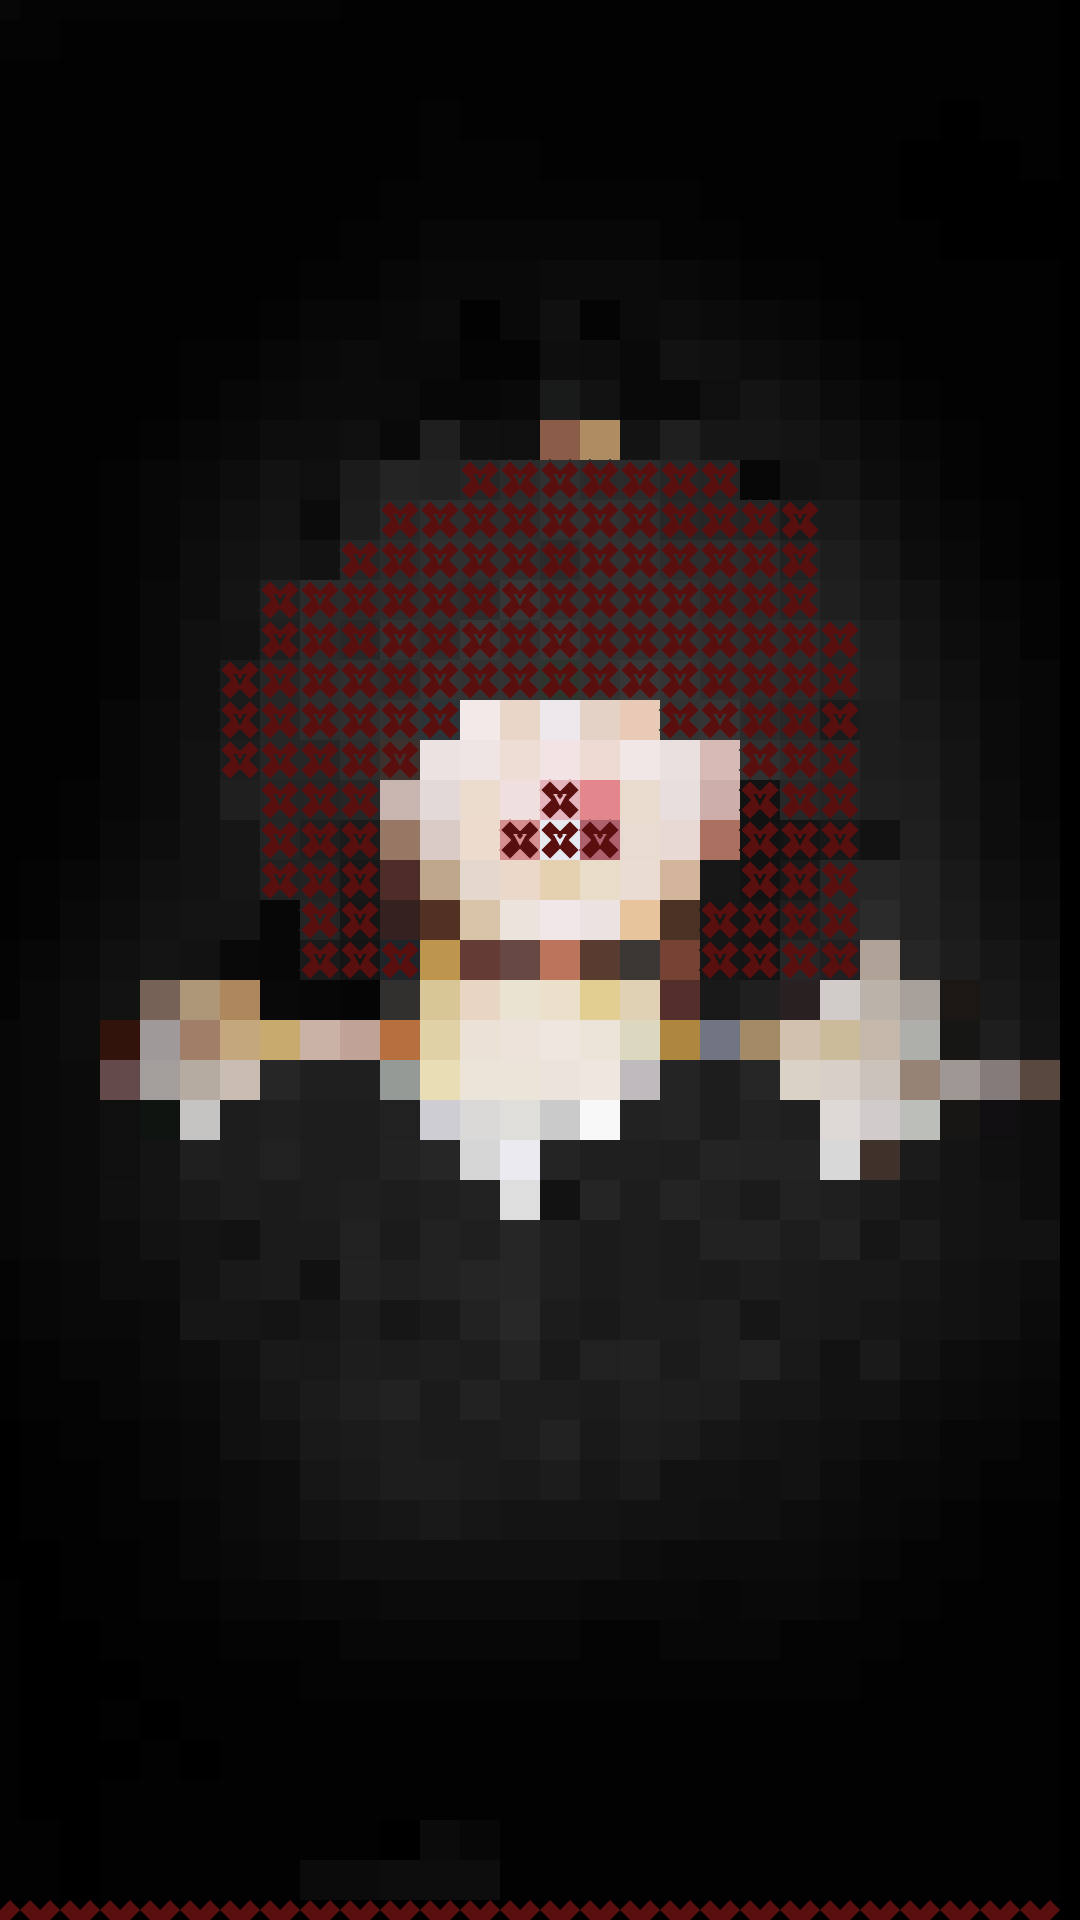
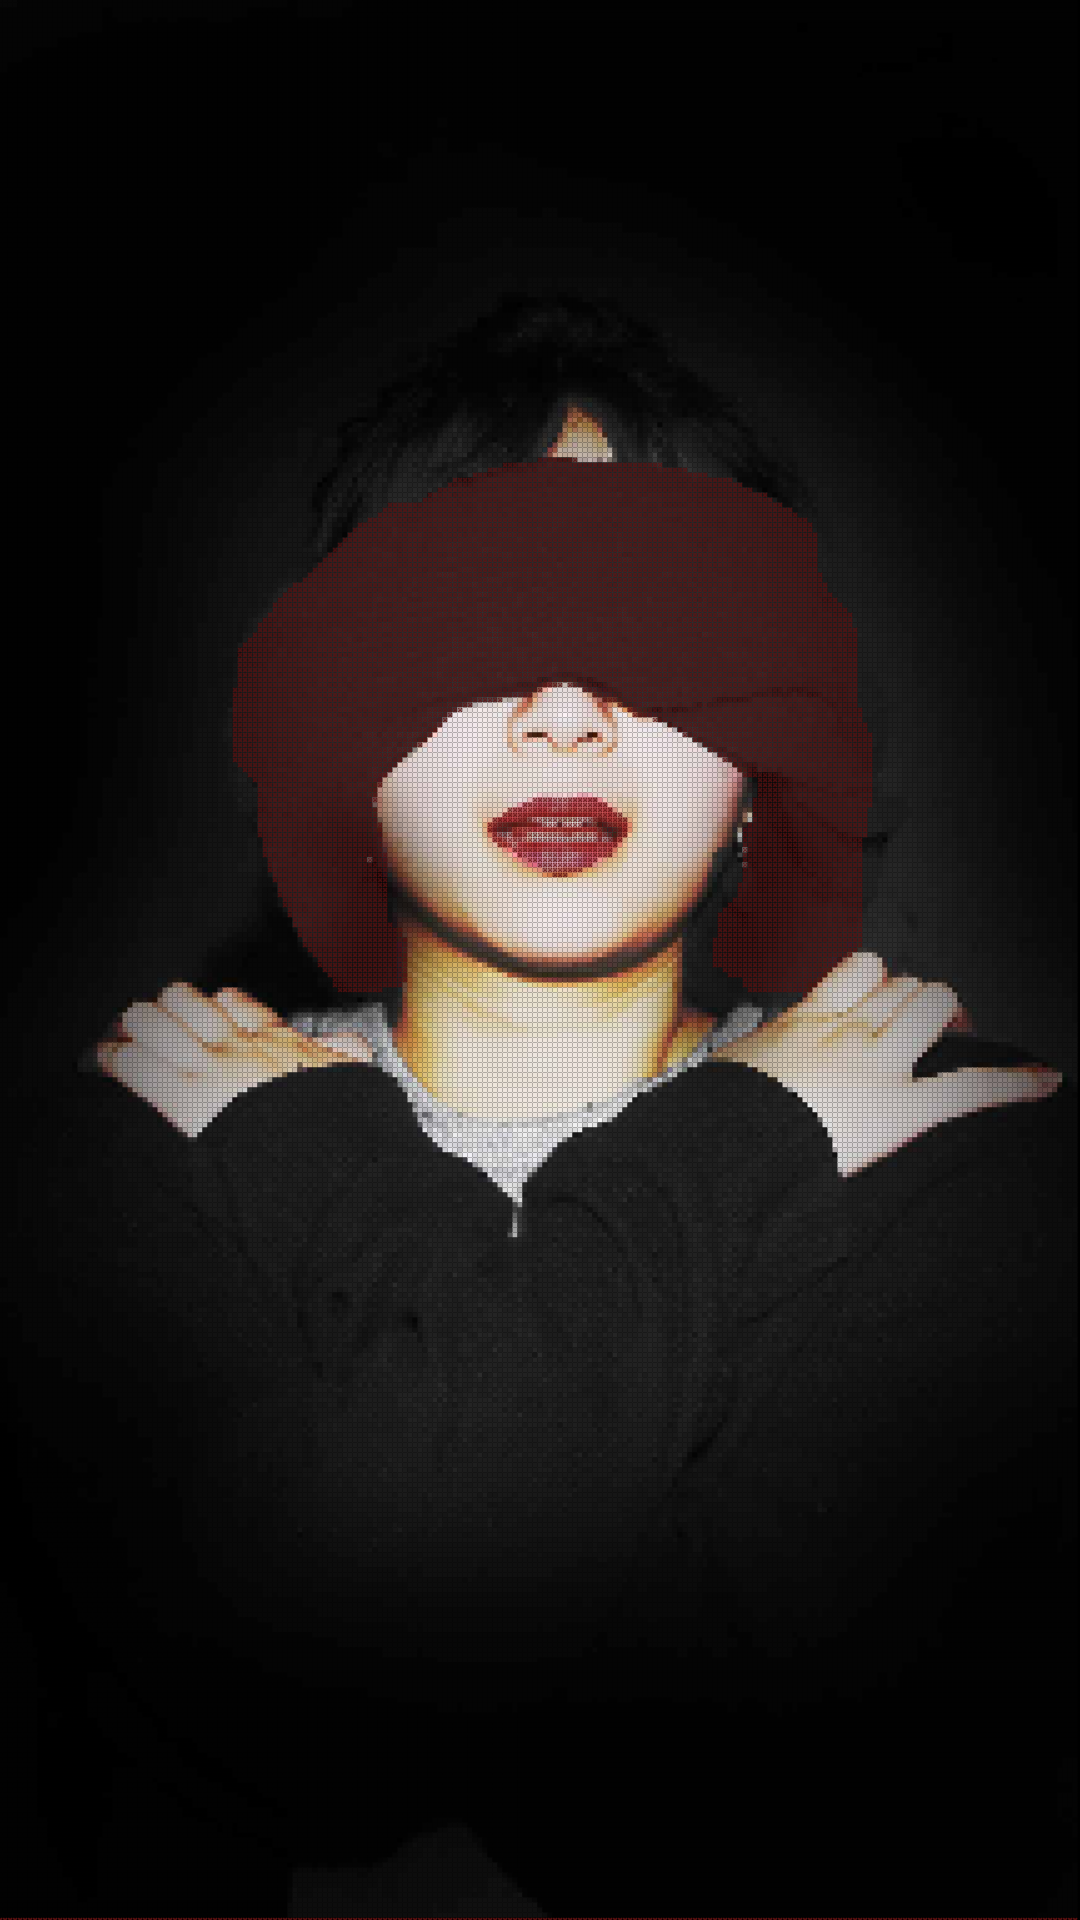
update two images

Changed region(s): [[0.0917, 0.1875, 0.9778, 0.6562], [0.0, 0.9688, 0.9778, 1.0]]

diff --git a/sketch.js b/sketch.js
@@ -8,9 +8,9 @@ let colorSquareSize = 40;
 
 /* Override some variables with high-resolution final version*/
 if (finalVersion){
-  elementSpacing = 10;
-  squareSize = 10;
-  colorSquareSize = 10;
+  elementSpacing = 5;
+  squareSize = 5;
+  colorSquareSize = 5;
 }
 
 let sourceImg=null;
@@ -18,8 +18,8 @@ let maskImg=null;
 let curRow=0;
 
 function preload() {
-  sourceImg = loadImage("input_garden_small.jpg");
-  maskImg = loadImage("mask_garden_small.png");
+  sourceImg = loadImage("input_2.jpg");
+  maskImg = loadImage("mask_2.png");
 }
 
 function setup () {
